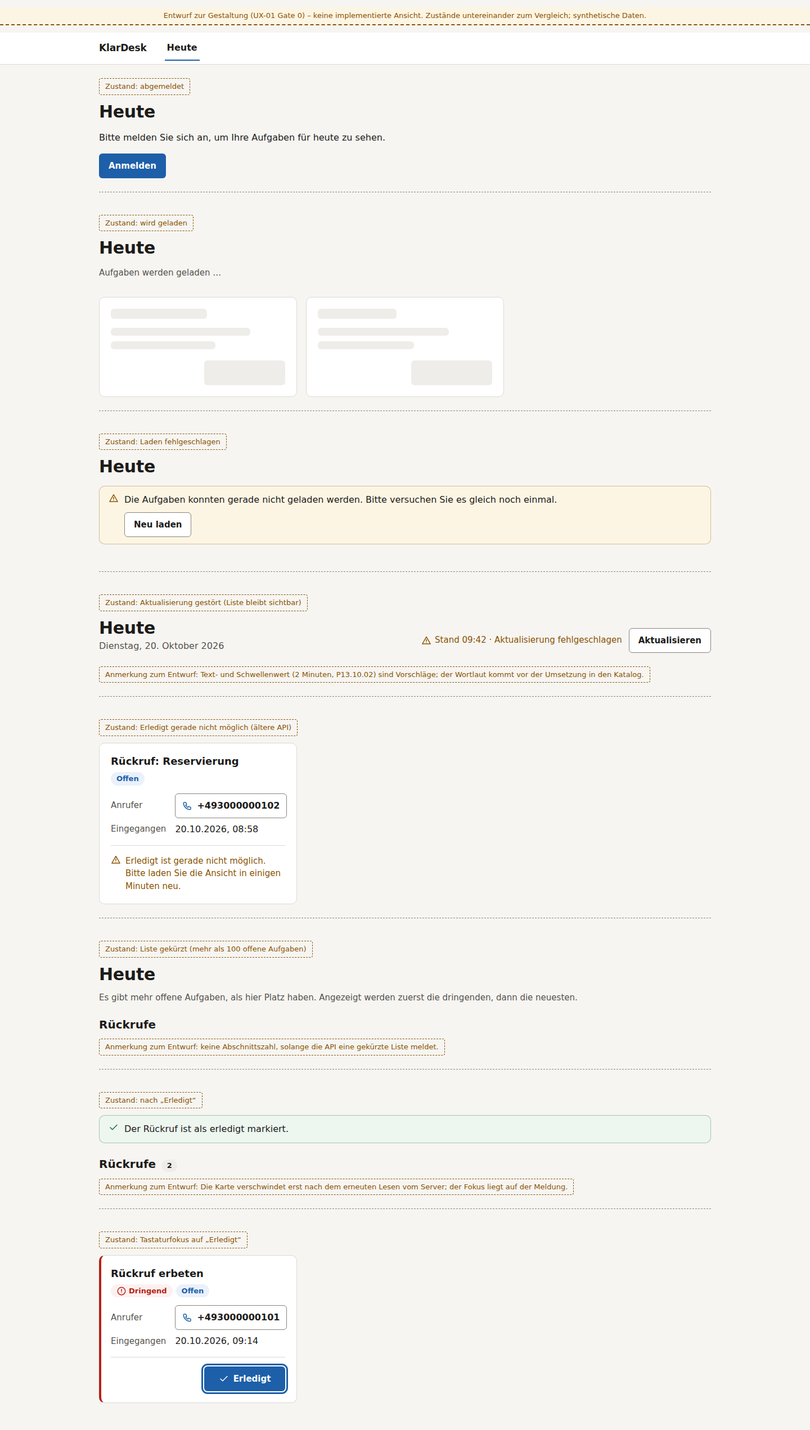
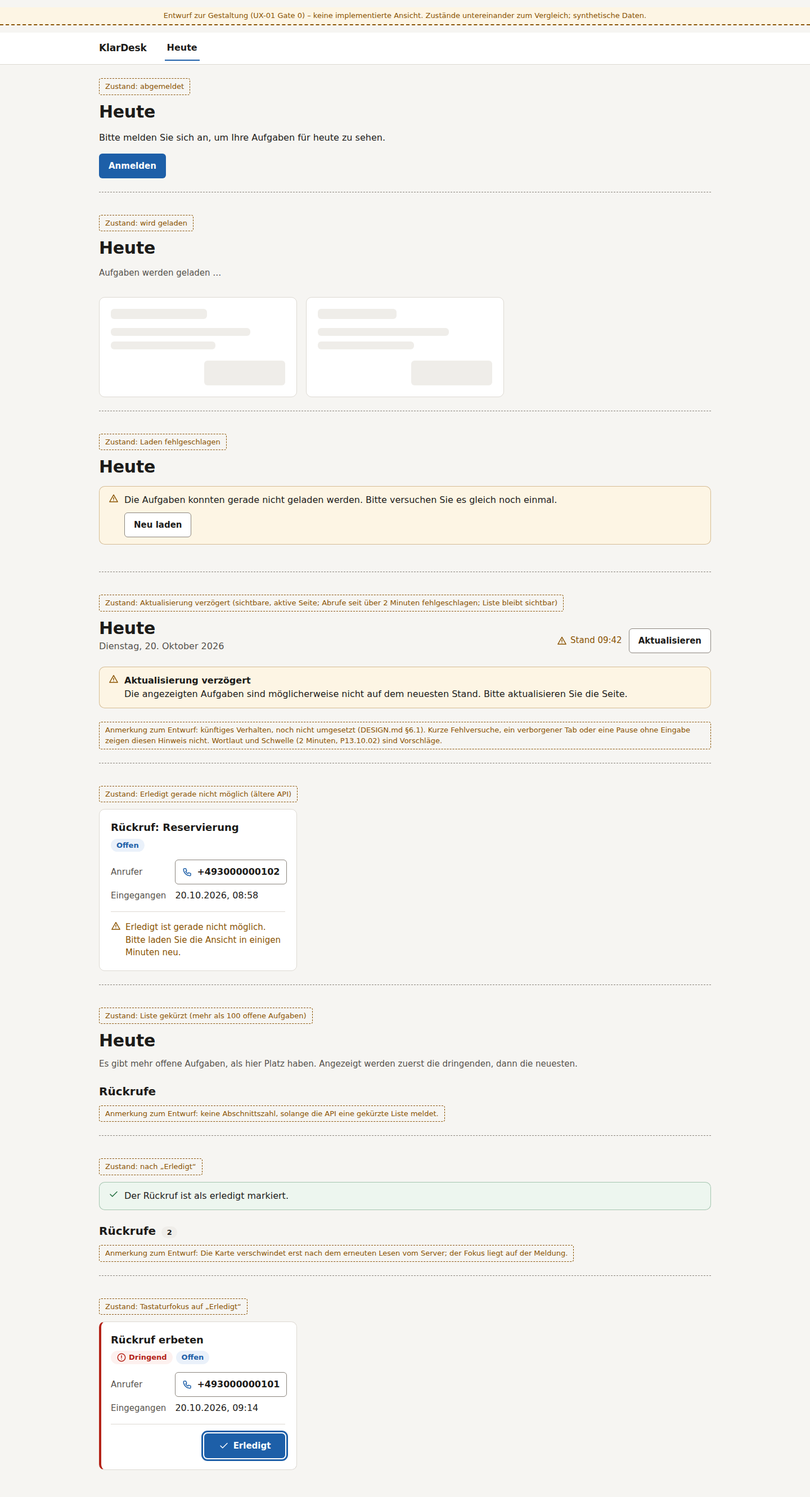
docs(p13): warn of stale data only on real failures; keep DG-10 open
Independent review of the Gate 0 package found the stale rule would warn on a
healthy hidden or idle tab, and that the DG-10 record let document acceptance
stand in for the owner usability test PLAN requires.

DESIGN.md now specifies refresh health as proposed future behaviour: a
failure clock that runs only while the page is visible and attended, is reset
by any successful read including an unchanged one, and raises "Aktualisierung
verzögert" after more than two minutes of actual failures. The current poller
exposes none of this, so a separate gate with eight acceptance proofs owns it.

DG-10 separates provisional direction, accepted planning guidance and
completed evidence; the owner test is not started, P13.01 stays blocked, and
the sequencing is put to the founder.

The foundations swatch label moves from white (3.70:1) to the text token
(4.65:1); the three affected mock-up images are regenerated from source.
ADR-0025 D2 records the stylesheet entry, the tokens export and the explicit
source registration of the ui package, with proofs required on the standalone
image.

diff --git a/docs/design/review/mockups/heute-states.html b/docs/design/review/mockups/heute-states.html
@@ -104,7 +104,10 @@
         </div>
       </div>
 
-      <p class="state-label">Zustand: Aktualisierung gestört (Liste bleibt sichtbar)</p>
+      <p class="state-label">
+        Zustand: Aktualisierung verzögert (sichtbare, aktive Seite; Abrufe seit über 2 Minuten
+        fehlgeschlagen; Liste bleibt sichtbar)
+      </p>
       <div class="state">
         <div class="page-head">
           <div>
@@ -113,15 +116,25 @@
           </div>
           <div class="page-tools">
             <span class="status-line status-line--warning"
-              ><svg class="icon" aria-hidden="true"><use href="#i-warn" /></svg>Stand 09:42 ·
-              Aktualisierung fehlgeschlagen</span
+              ><svg class="icon" aria-hidden="true"><use href="#i-warn" /></svg>Stand 09:42</span
             >
             <a class="btn btn-secondary" href="#">Aktualisieren</a>
           </div>
         </div>
+        <div class="alert alert--warning" role="status" style="margin-top: 16px">
+          <svg class="icon" aria-hidden="true"><use href="#i-warn" /></svg>
+          <div>
+            <p><strong>Aktualisierung verzögert</strong></p>
+            <p>
+              Die angezeigten Aufgaben sind möglicherweise nicht auf dem neuesten Stand. Bitte
+              aktualisieren Sie die Seite.
+            </p>
+          </div>
+        </div>
         <p class="state-label" style="margin: 0">
-          Anmerkung zum Entwurf: Text- und Schwellenwert (2 Minuten, P13.10.02) sind Vorschläge; der
-          Wortlaut kommt vor der Umsetzung in den Katalog.
+          Anmerkung zum Entwurf: künftiges Verhalten, noch nicht umgesetzt (DESIGN.md §6.1). Kurze
+          Fehlversuche, ein verborgener Tab oder eine Pause ohne Eingabe zeigen diesen Hinweis
+          nicht. Wortlaut und Schwelle (2 Minuten, P13.10.02) sind Vorschläge.
         </p>
       </div>
 

diff --git a/docs/design/review/mockups/foundations.html b/docs/design/review/mockups/foundations.html
@@ -53,7 +53,7 @@
             <div class="swatch-meta"><strong>#57534E</strong>Beschriftungen, Zeiten</div>
           </div>
           <div class="swatch">
-            <div class="swatch-chip" style="background: #8a847c; color: #ffffff">Bedienrahmen</div>
+            <div class="swatch-chip" style="background: #8a847c; color: #1c1b19">Bedienrahmen</div>
             <div class="swatch-meta">
               <strong>#8A847C</strong>3.7 auf Fläche · 3.4 auf Canvas (≥ 3:1)
             </div>

diff --git a/docs/design/DESIGN.md b/docs/design/DESIGN.md
@@ -1,6 +1,7 @@
 # Owner app design system (DESIGN.md)
 
 - **Status:** PROPOSED: pending founder acceptance (UX-01 Gate 0). Not binding until the founder accepts it, and nothing here is implemented yet.
+- **What acceptance means:** founder acceptance makes this file planning guidance for UX-01. It does **not** complete DG-10, whose PLAN evidence (an owner usability test) is still outstanding, and it does not by itself unblock P13.01 implementation. See [DG-10](../decisions/DG-10-owner-app-visual-language.md), "Status and what remains open".
 - **Scope:** the owner web app (`apps/web`) and its shared components (`packages/ui`). It does not cover marketing pages or the Keycloak sign-in theme.
 - **Decided with:** [DG-10](../decisions/DG-10-owner-app-visual-language.md) (visual language) and [ADR-0025](../adr/0025-frontend-architecture.md) (frontend architecture).
 - **Review package:** [review/README.md](review/README.md) (proposal mock-ups, not screenshots of the app).
@@ -10,7 +11,7 @@
 When sources disagree, the higher one wins:
 
 1. PLAN, the invariants (INV-01…INV-20), security, accessibility (WCAG 2.2 AA, P13.12) and repository governance.
-2. The founder-approved DG-10 decision.
+2. The DG-10 decision, once taken with its PLAN evidence ([record](../decisions/DG-10-owner-app-visual-language.md)).
 3. The adopted ADR-0025.
 4. This file, once approved.
 5. Suggestions from external design skills, references and tools. They are advisory only and never override 1–4 ([design-references.md](design-references.md)).
@@ -91,13 +92,13 @@ Contrast follows WCAG 2.x relative luminance. "Surface" is `#FFFFFF`, "canvas" i
 
 ### 3.2 Status semantics
 
-| Meaning                          | Visual                                          | Text (from `de.json`)                                   |
-| -------------------------------- | ----------------------------------------------- | ------------------------------------------------------- |
-| Needs attention now (`urgent`)   | urgent badge plus a 4 px urgent bar on the card | badge "Dringend"; section heading "Dringend"            |
-| Open                             | primary text on info background                 | "Offen"                                                 |
-| In progress or waiting           | muted text on sunken background                 | "In Bearbeitung", "Wartet"                              |
-| Outcome confirmed by the API     | success notice with a check icon                | `today.complete.done`                                   |
-| Read failed, stale, not possible | warning alert with an icon                      | `today.error`, `today.complete.unavailable`, stale line |
+| Meaning                          | Visual                                          | Text (from `de.json`)                             |
+| -------------------------------- | ----------------------------------------------- | ------------------------------------------------- |
+| Needs attention now (`urgent`)   | urgent badge plus a 4 px urgent bar on the card | badge "Dringend"; section heading "Dringend"      |
+| Open                             | primary text on info background                 | "Offen"                                           |
+| In progress or waiting           | muted text on sunken background                 | "In Bearbeitung", "Wartet"                        |
+| Outcome confirmed by the API     | success notice with a check icon                | `today.complete.done`                             |
+| Read failed, stale, not possible | warning alert with an icon                      | `today.error`, `today.complete.unavailable`, §6.1 |
 
 Icons come from `lucide-react` and are `aria-hidden="true"`, because their meaning is always also in the text.
 
@@ -155,7 +156,7 @@ There are no entrance animations, staggered reveals, hover scaling, scroll effec
 **Page header.**
 
 - The h1 is "Heute", followed by the date in German long form.
-- The status line reads "Stand HH:MM", the time of the last successful read of the task list.
+- The status line reads "Stand HH:MM", the time of the last successful read of the task list as observed by this page: the server's read for the first render, then every successful poll, **including one whose answer is unchanged and causes no re-render** (§6.1). It is never a backend freshness timestamp. Today's page has no status line; it arrives with the refresh-health gate (§6.1).
 - "Aktualisieren" stays a **link** styled as a secondary button.
 
 **Sections.**
@@ -219,17 +220,84 @@ There are no entrance animations, staggered reveals, hover scaling, scroll effec
 
 ## 6. States
 
-| State                        | Treatment                                                                                                                                                                                                 |
-| ---------------------------- | --------------------------------------------------------------------------------------------------------------------------------------------------------------------------------------------------------- |
-| Signed out                   | page header, `today.signedOut` text, "Anmelden" as a primary link to `/api/auth/login`                                                                                                                    |
-| Loading                      | three skeleton cards in the section frame plus the existing `role="status"` text "Aufgaben werden geladen …"                                                                                              |
-| Empty                        | every section shows its heading and "Alles erledigt."                                                                                                                                                     |
-| Populated                    | cards per §5; counts per §2                                                                                                                                                                               |
-| Truncated                    | `role="note"` truncation text below the header; no counts; empty sections say `today.noneShown`                                                                                                           |
-| Error (read failed)          | warning alert (`role="alert"`) with `today.error` and "Neu laden"                                                                                                                                         |
-| Degraded: stale              | the status line switches to the warning tone, "Stand HH:MM · Aktualisierung fehlgeschlagen". After 2 minutes without a successful read, the view is marked possibly out of date (P13.10.02). Never "live" |
-| Degraded: action unavailable | the card keeps its facts; `today.complete.unavailable` replaces the button                                                                                                                                |
-| After an action              | the outcome notice above the sections, success or warning tone by result, with focus                                                                                                                      |
+| State                        | Treatment                                                                                                                                                                                 |
+| ---------------------------- | ----------------------------------------------------------------------------------------------------------------------------------------------------------------------------------------- |
+| Signed out                   | page header, `today.signedOut` text, "Anmelden" as a primary link to `/api/auth/login`                                                                                                    |
+| Loading                      | three skeleton cards in the section frame plus the existing `role="status"` text "Aufgaben werden geladen …"                                                                              |
+| Empty                        | every section shows its heading and "Alles erledigt."                                                                                                                                     |
+| Populated                    | cards per §5; counts per §2                                                                                                                                                               |
+| Truncated                    | `role="note"` truncation text below the header; no counts; empty sections say `today.noneShown`                                                                                           |
+| Error (read failed)          | warning alert (`role="alert"`) with `today.error` and "Neu laden"                                                                                                                         |
+| Degraded: refresh delayed    | only after more than 2 minutes of failed refreshes on a visible, attended page; never because the tab was hidden, the owner was idle or nothing changed. Full rules in §6.1. Never "live" |
+| Degraded: action unavailable | the card keeps its facts; `today.complete.unavailable` replaces the button                                                                                                                |
+| After an action              | the outcome notice above the sections, success or warning tone by result, with focus                                                                                                      |
+
+### 6.1 Refresh health (proposed future behaviour, not implemented)
+
+Everything in this section is **proposed**. None of it exists in the current code, and none of it is VERIFIED. It implements P13.10.02 ("stale-data indicator after 2 min without updates"), read here as "2 minutes without a **successful refresh**", not "2 minutes without new tasks". The founder confirms that reading (DG-10 record, "Founder decisions").
+
+**Today's polling, as built** (`apps/web/lib/live-today.ts`, `apps/web/app/live-today.tsx`, M2B):
+
+- a visible, attended tab polls `GET /api/today` every 15 s (`LIVE_POLL_MS`), each request timing out after 8 s;
+- a failure backs off to 30 s, 60 s, then at most 120 s between attempts (`LIVE_BACKOFF_MAX_MS`), with ±10% jitter, and leaves the list on screen;
+- a hidden tab, or a tab without input for 30 minutes (`LIVE_IDLE_MS`), stops polling. Showing the tab, coming back online, or the first input after the idle pause polls at once (`wake`);
+- a 401 hands over to the server render, which shows the signed-out state and unmounts the poller;
+- an unchanged answer does nothing; a changed one calls `router.refresh()`.
+
+**What the code doesn't provide yet.** `startLivePoll` reports only "the list changed" (`onChange`). It reports no unchanged success, no failure, no time of the last success and no suspension or resumption; its failure count is internal. `LiveToday` renders nothing, and the page has no status line. This behaviour therefore **needs a change to the poller's state machine**: it must report each attempt's result with its time, and when polling is suspended or resumed. It also needs `LiveToday` (or a sibling client component) to render the status line and the notice. That change adds markup, not requests: the client still makes only the existing same-origin read (ADR-0025 D1).
+
+**The failure clock.** All rules hang on one client-side clock:
+
+- It **starts** when an attempt fails and no failure is already being timed since the last success.
+- It **runs only while the page is visible and attended.** Hidden and idle time pauses it; it neither advances nor resets.
+- It **resets to zero** on any successful read, changed or unchanged.
+
+A failed attempt is a network error, the 8 s timeout, any status other than 200 and 401, or a body the contract parser rejects.
+
+**States:**
+
+| State                                    | Condition                                                         | Treatment                                                                                                                                                                    |
+| ---------------------------------------- | ----------------------------------------------------------------- | ---------------------------------------------------------------------------------------------------------------------------------------------------------------------------- |
+| Initial loading                          | the server is rendering the first page                            | `loading.tsx`: skeleton plus "Aufgaben werden geladen …" (§6 Loading)                                                                                                        |
+| Initial-load failure                     | the server read failed                                            | the existing immediate `role="alert"` with `today.error` and "Neu laden". No list, so no refresh-health notice. Polling continues, and the first success re-renders the page |
+| Healthy polling                          | visible, attended, last attempt succeeded                         | "Stand HH:MM" in muted text                                                                                                                                                  |
+| Successful refresh, unchanged answer     | a 200 whose fingerprint equals the rendered one                   | counts as success: the clock resets, "Stand" advances to this read's time, any notice clears. No server re-render                                                            |
+| Failed attempts, under 2 minutes         | visible, attended, clock between 0 and 2 minutes                  | **no visible change**: the list and "Stand HH:MM" (still the last success) stay. Backoff retries as built                                                                    |
+| Refresh delayed                          | clock above 2 minutes **and** the latest completed attempt failed | "Stand HH:MM" turns to the warning tone with an icon, and the notice below appears                                                                                           |
+| Hidden tab                               | `document.visibilityState` is not `visible`                       | polling suspended, clock paused, nothing raised. Unseen, so no notice can appear meanwhile                                                                                   |
+| Idle                                     | no input for 30 minutes                                           | the same as a hidden tab                                                                                                                                                     |
+| Returning (tab shown, input, online)     | suspension ends                                                   | an immediate recovery poll (`wake`). Until it completes, no notice is **newly** raised: the clock was paused, so it can't have crossed 2 minutes                             |
+| Recovery                                 | any later successful read                                         | the clock resets, the notice disappears, "Stand" advances, and a changed list re-renders                                                                                     |
+| Session expired or authentication failed | the poll gets 401                                                 | the existing authentication path: server render, signed-out state, "Anmelden". A 401 that render doesn't confirm counts as a failed attempt                                  |
+
+**The notice** (proposed wording; it enters `de.json` only at implementation):
+
+- **Title:** "Aktualisierung verzögert"
+- **Text:** "Die angezeigten Aufgaben sind möglicherweise nicht auf dem neuesten Stand. Bitte aktualisieren Sie die Seite."
+- **Presentation:** a warning `Alert` below the page header, with `role="status"` (polite). It never takes focus, because it appears without user action. The existing "Aktualisieren" link is the action.
+
+**It is never raised because:**
+
+- no new callbacks arrived;
+- the last successful answer was unchanged;
+- the tab was hidden;
+- polling was suspended while idle;
+- the owner returned and the recovery poll hasn't completed yet.
+
+Only failed attempts on a visible, attended page move the clock.
+
+**Implementation and acceptance: UX-01 refresh-health gate (RH).** RH is its own gate and PR, separate from styling. Its markup can use the tokens if they exist by then and the existing unstyled markup otherwise. It is accepted only with these executable proofs, each run on the real code:
+
+1. A successful unchanged answer resets the clock, advances "Stand" and clears the notice, without a server re-render (unit test of the poller's state logic with fake timers).
+2. Failed attempts on a visible, attended page raise the notice after more than 2 minutes, and not before (unit; plus one slice E2E with the API made unreachable).
+3. Hidden-tab and idle suspension never raise a notice, however long they last, including 2 minutes or more after an earlier failure (unit).
+4. Showing the tab, coming back online, or the first input after an idle pause starts an immediate recovery poll (unit; the existing "polls at once when it is shown again" test stays green).
+5. A successful recovery clears the notice (unit and slice E2E).
+6. An initial-load failure keeps its existing immediate `role="alert"` treatment, and no refresh-health notice appears (existing page tests plus one assertion).
+7. Session expiry goes through the existing authentication path: on a confirmed 401 the signed-out state renders (existing behaviour; regression test).
+8. The retained list, interval, backoff, timeout, idle rule, no-overlap rule and `router.refresh` on change behave as today, unless a change is intended, named in the PR and tested. The existing `apps/web/lib/live-today.test.ts` cases and `e2e/vertical-slice/today-callback.spec.ts` pass unchanged.
+
+The regression tests are mutation-checked. RH supplies the stale-indicator half of P13.10.03. The SSE half stays open until the API has an event stream (ADR-0025 D4).
 
 ## 7. Interaction rules
 

diff --git a/docs/design/visual-regression-plan.md b/docs/design/visual-regression-plan.md
@@ -7,18 +7,18 @@ Screenshots are a tripwire against unintended visual change. They never replace 
 
 ## 1. Environment (everything fixed)
 
-| Variable          | Fixed value                                                                                                                                                                  |
-| ----------------- | ---------------------------------------------------------------------------------------------------------------------------------------------------------------------------- |
-| Application state | the vertical-slice stack (built API and web, PostgreSQL, local Keycloak), as in `playwright.slice.config.ts`, never the founder's packaged demo                              |
-| Data              | a fresh database per run, seeded only through the existing simulated-call endpoint with the fixed synthetic set in §3                                                        |
-| Browser           | Playwright **1.63.0** Chromium, in the official Playwright container image for that version, pinned by digest when the job is written                                        |
-| Fonts             | whatever that image ships; the design uses the system UI stack, and the pinned image makes the resolved fonts deterministic                                                  |
-| Locale, timezone  | `locale: 'de-DE'`, `timezoneId: 'Europe/Berlin'`                                                                                                                             |
-| Motion            | `reducedMotion: 'reduce'`, `toHaveScreenshot({ animations: 'disabled', caret: 'hide' })`                                                                                     |
-| Pointer           | mouse moved to `(0, 0)` before each capture (no hover state)                                                                                                                 |
-| Device scale      | 1                                                                                                                                                                            |
-| Dynamic values    | masked, not faked: every `<time>`, the page date, and the "Stand HH:MM" line. They are server-rendered from real clocks, so the browser clock can't legitimately freeze them |
-| Tolerance         | `maxDiffPixelRatio: 0.01`, `threshold: 0.2` (Playwright defaults otherwise)                                                                                                  |
+| Variable          | Fixed value                                                                                                                                                                                                                                               |
+| ----------------- | --------------------------------------------------------------------------------------------------------------------------------------------------------------------------------------------------------------------------------------------------------- |
+| Application state | the vertical-slice stack (built API and web, PostgreSQL, local Keycloak), as in `playwright.slice.config.ts`, never the founder's packaged demo                                                                                                           |
+| Data              | a fresh database per run, seeded only through the existing simulated-call endpoint with the fixed synthetic set in §3                                                                                                                                     |
+| Browser           | Playwright **1.63.0** Chromium, in the official Playwright container image for that version, pinned by digest when the job is written                                                                                                                     |
+| Fonts             | whatever that image ships; the design uses the system UI stack, and the pinned image makes the resolved fonts deterministic                                                                                                                               |
+| Locale, timezone  | `locale: 'de-DE'`, `timezoneId: 'Europe/Berlin'`                                                                                                                                                                                                          |
+| Motion            | `reducedMotion: 'reduce'`, `toHaveScreenshot({ animations: 'disabled', caret: 'hide' })`                                                                                                                                                                  |
+| Pointer           | mouse moved to `(0, 0)` before each capture (no hover state)                                                                                                                                                                                              |
+| Device scale      | 1                                                                                                                                                                                                                                                         |
+| Dynamic values    | masked, not faked: every `<time>`, the page date, and the "Stand HH:MM" line. They come from real clocks: the server's for the render, and the page's last successful read for "Stand" (DESIGN.md §6.1). The browser clock can't legitimately freeze them |
+| Tolerance         | `maxDiffPixelRatio: 0.01`, `threshold: 0.2` (Playwright defaults otherwise)                                                                                                                                                                               |
 
 No production data, no personal data and no real phone numbers are used, ever.
 
@@ -95,3 +95,4 @@ PLAN's 360, 768 and 1280 stay mandatory functional widths. Screenshots go where 
 - Under `forcedColors: 'active'`, buttons and focus stay visible (one smoke check).
 - The CSP header is present and no `securitypolicyviolation` event fires.
 - The existing business assertions pass unchanged. Selectors are only ever added (DESIGN.md §5, preserved contracts).
+- The refresh-delayed notice (DESIGN.md §6.1) has no baseline. It is time-dependent, so the refresh-health gate RH proves it with fake-timer unit tests and one slice E2E, not with a screenshot. The matrix stays at 13 images.

diff --git a/docs/decisions/DG-10-owner-app-visual-language.md b/docs/decisions/DG-10-owner-app-visual-language.md
@@ -1,9 +1,9 @@
 # DG-10 — Owner-app visual language
 
 - **Gate:** PLAN Founder Decision Gates, DG-10. **Owner:** founder. **Target date:** 2026-10-12 (overdue).
-- **Decision:** **PROVISIONAL, pending founder acceptance.** The founder has provisionally selected the direction below (UX-01 Gate 0). It becomes TAKEN when the founder accepts this record after reviewing it and [DESIGN.md](../design/DESIGN.md).
-- **Blocks:** P13.01.04 (design tokens) and UX-01 implementation gates 2–5.
-- **Unblocks on:** founder acceptance of this record, [ADR-0025](../adr/0025-frontend-architecture.md) and DESIGN.md.
+- **Decision:** **PROVISIONAL, not TAKEN.** The founder has provisionally selected the direction below (UX-01 Gate 0). Accepting this record, [ADR-0025](../adr/0025-frontend-architecture.md) and [DESIGN.md](../design/DESIGN.md) as planning guidance does not make it TAKEN. PLAN's evidence for DG-10, an owner usability test, has not taken place (see [Status and what remains open](#status-and-what-remains-open)).
+- **Blocks (PLAN L507):** P13.01, including P13.01.04 (design tokens) and the styling work of UX-01 gates 2–5.
+- **Unblocks on:** a founder decision on how the owner usability test is sequenced, then DG-10 TAKEN on that basis. Merging the PR that adds this record changes nothing about DG-10's state.
 
 ## The question
 
@@ -46,9 +46,35 @@ A **calm, premium, light, high-contrast operational SaaS design** for German res
 
 Tokens, components and states are specified in [DESIGN.md](../design/DESIGN.md).
 
-## Evidence required by PLAN
+## Status and what remains open
 
-The DG-10 row asks for an owner usability test. This record fixes the language. Verifying it with an owner is P13 evidence (EV-P13-003, usability session notes) on the implemented Heute (UX-01 gate 3 or later), not on mock-ups.
+Three things are kept apart:
+
+|     | What                                                                                   | State                                          |
+| --- | -------------------------------------------------------------------------------------- | ---------------------------------------------- |
+| A   | The founder provisionally chooses the direction                                        | done (provisional, UX-01 Gate 0)               |
+| B   | The founder accepts this record, ADR-0025 and DESIGN.md as planning guidance for UX-01 | pending founder review of the Gate 0 PR        |
+| C   | DG-10's PLAN evidence exists: an owner usability test, recorded as an evidence record  | **NOT_STARTED**: no owner test has taken place |
+
+A and B don't imply C. Viewing the mock-ups, whether by the founder or anyone else, is not an owner usability test. This record contains no usability observations.
+
+**What PLAN says, and what it leaves open.**
+
+- The DG-10 row: evidence required "Owner usability test"; blocks P13.01 (L507). P13 lists DG-10 among its dependencies.
+- P13's acceptance criteria include a separate session: "Owner usability session with the Gurlitt owner: they complete the morning review of 10 synthetic items in < 5 minutes without help". P13's required evidence names "usability session notes".
+- PLAN doesn't say what the DG-10 test consists of, or whether it may run on a prototype. It doesn't say whether it may be the same session as P13's, or whether DG-10 may be taken on its recommended default before the test.
+- PLAN gives the notes the ID EV-P13-003, but `evidence.py` has already allocated EV-P13-003 to an unrelated record (cards-shapes). The notes get the next free P13 ID when the session takes place.
+
+**Until the founder decides:** DG-10 stays PROVISIONAL, and P13.01 implementation, including the tokens and UX-01 styling, stays blocked as PLAN says. Neither ADR-0025 nor DESIGN.md is a way around that.
+
+## Founder decisions
+
+1. **How DG-10's evidence is produced.** Either:
+   - **(a) PLAN as written:** an owner usability test before DG-10 is taken. The founder also decides what it runs on. Building a styled Heute for the test is P13.01 work and would need the founder's explicit permission.
+   - **(b) A PLAN change.** It loosens a gate, so only the founder can make it: take DG-10 on the recommended default now and record the owner test as follow-up evidence on the implemented Heute, with a named trigger for revising the language if the test fails.
+2. Whether the DG-10 test and P13's acceptance session may be one session.
+3. Whether work that doesn't style the app may proceed while DG-10 is open: the gate 2a before-capture spec ([visual-regression-plan.md](../design/visual-regression-plan.md) §6) and the refresh-health gate RH ([DESIGN.md](../design/DESIGN.md) §6.1, P13.10.02). The M2B polling (P13.02.04) landed while DG-10 was open, but PLAN lists DG-10 as a dependency of all of P13.
+4. That P13.10.02's "2 min without updates" means "without a successful refresh", not "without new tasks" (DESIGN.md §6.1).
 
 ## Options considered
 

diff --git a/docs/adr/0025-frontend-architecture.md b/docs/adr/0025-frontend-architecture.md
@@ -1,6 +1,6 @@
 # ADR-0025 — Owner web app: frontend architecture and design system
 
-- **Status:** PROPOSED (pending founder acceptance; UX-01 Gate 0). Documented, not implemented: no dependency named here is installed yet.
+- **Status:** PROPOSED (pending founder acceptance; UX-01 Gate 0). Documented, not implemented: no dependency named here is installed yet. Accepting this ADR doesn't take DG-10 or unblock P13.01; see the [DG-10 record](../decisions/DG-10-owner-app-visual-language.md).
 - **Deciders:** founder
 - **Phase:** P13
 - **Related:** DG-10, ADR-0001, ADR-0034, INV-02, INV-12, INV-17, QG-03, QG-09
@@ -49,6 +49,44 @@ Adopting those now adds dependencies with nothing to use them. Not recording the
 - `next build` compiles the CSS into a hashed file under `.next/static`, which the image already copies. Nothing is added to the runtime image beyond that stylesheet.
 - Design tokens live as CSS custom properties in `packages/ui/src/tokens.css` under `@theme` ([DESIGN.md](../design/DESIGN.md) §3).
 - No CSS-in-JS runtime, no inline `style` props in components, no web fonts (the system UI stack).
+
+**D2 wiring.** These are planned changes, written against the repository as it stands at Gate 0:
+
+- `@moin/web` doesn't yet depend on `@moin/ui`.
+- `@moin/ui` exports only `.` (`./src/index.ts`).
+- `next.config.ts` transpiles only `@moin/contracts`.
+- The root `.gitignore` ignores `dist/`, `.next/` and `node_modules/`.
+- `.dockerignore` excludes `docs`.
+
+None of the following has been built or run, and the output paths and resolution details below are unverified until the gate that adds the dependencies proves them.
+
+1. **Stylesheet entry point:** a new `apps/web/app/globals.css`, imported once from `apps/web/app/layout.tsx` (`import './globals.css';`). It replaces that layout's inline `<style>` block.
+
+   ```css
+   @import 'tailwindcss' source('..');
+   @import '@moin/ui/tokens.css';
+   @source '../../../packages/ui/src';
+   @source not '../../../packages/ui/src/**/*.test.*';
+   ```
+
+2. **PostCSS:** `apps/web/postcss.config.mjs` registers `@tailwindcss/postcss`. Its default export is framework-required (A-22).
+3. **Tokens export:** `packages/ui/package.json` gains `"./tokens.css": "./src/tokens.css"` in `exports`, so the second `@import` resolves through the workspace link. The gate confirms that Tailwind's resolver honours that export. If it doesn't, the import becomes the relative path `../../../packages/ui/src/tokens.css`, and the gate records which form is used.
+4. **Workspace link:** `@moin/web` adds `"@moin/ui": "workspace:*"`, and `transpilePackages` becomes `['@moin/contracts', '@moin/ui']`, because `@moin/ui`, like `@moin/contracts`, ships TypeScript source.
+5. **Source scanning.**
+   - **Base path:** `source('..')` pins Tailwind's automatic detection to `apps/web`, relative to the stylesheet, so the result doesn't depend on the directory the build runs from (pnpm filter, turbo or the image).
+   - **What automatic detection skips:** files ignored by `.gitignore` (so `.next/` and `packages/ui/dist/`), everything under `node_modules` (so the `@moin/ui` workspace symlink in `apps/web/node_modules`), CSS files and lock files.
+   - **Registering `@moin/ui`:** its sources lie outside the base path and would also be reached only through `node_modules`, so they are **not** found automatically. The explicit `@source` registers `packages/ui/src`, and `@source not` keeps its test files out.
+   - **Mock-ups:** `docs/design/review/mockups/` is outside every registered path and excluded from the image build context, so its classes never reach the bundle.
+6. **Build and image output:**
+   - `next build` emits the compiled stylesheet as a hashed file under `.next/static/`, which the image already copies next to the standalone server (`apps/server/Dockerfile`).
+   - The deps stage already copies `packages/ui/package.json`, and `--filter @moin/web...` installs `@moin/ui`'s dependencies once the workspace link exists. No Dockerfile change is expected; the gate shows whether one is needed.
+
+**Proof required at adoption, on the production standalone image, not on `next dev`:**
+
+- the built CSS contains a token from `tokens.css` and a utility used only inside `packages/ui/src`, which proves the explicit source registration;
+- `scripts/check-web-image.sh`, extended to require at least one `.css` asset with `text/css`, passes against the built image (amd64 and arm64);
+- the vertical-slice spec reads a computed token value on Heute from the standalone server (for example, the body background `rgb(246, 245, 242)`), and no `securitypolicyviolation` fires;
+- `check-licences.ts` and `pnpm audit --prod` pass with the new dependencies.
 
 **D3 — Shared UI components.**
 

diff --git a/docs/design/review/README.md b/docs/design/review/README.md
@@ -23,6 +23,7 @@
 ![Foundations: tokens, type, spacing, buttons, status](images/foundations-1440.png)
 
 - Every text pair is 4.5:1 or more, and control boundaries and focus rings are 3:1 or more. The full table is in DESIGN.md §3.1.
+- **Correction after independent review:** the "Bedienrahmen" swatch label was white on `#8A847C` (3.70:1, below 4.5:1). It is now `--color-text` `#1C1B19` on the same swatch (4.65:1). The control-border token is unchanged, because it is a 3:1 boundary colour, not a text ground. A computed-style audit of every visible text element in the four mock-ups at 390 and 1440 px now finds no pair below its WCAG threshold.
 - **The primary blue `#1D5FA8` in each state:** default 6.5:1, hover 8.7:1, pressed 11.0:1 (white text on each). The focus ring is 6.5:1 on white and 5.9:1 on the canvas.
 - There is no decorative warm accent (DG-10). The warmth is in the neutral ground `#F6F5F2` and the text greys.
 
@@ -90,13 +91,15 @@ Shown from top to bottom:
 1. signed out;
 2. loading (skeleton plus the existing status text);
 3. read failed (warning alert with "Neu laden");
-4. refresh failing while the list stays visible ("Stand HH:MM · Aktualisierung fehlgeschlagen");
+4. refresh delayed: more than 2 minutes of failed refreshes on a visible, attended page, with the list still shown ("Aktualisierung verzögert", [DESIGN.md](../DESIGN.md) §6.1). This is proposed future behaviour; today's polling doesn't expose the state it needs. Brief failures, a hidden tab and an idle pause show no notice, so they have no image;
 5. completion unavailable on an older API;
 6. truncated list (no counts);
 7. after "Erledigt" (the success notice, which receives focus);
 8. keyboard focus on "Erledigt".
 
-The dashed "Zustand" and "Anmerkung" labels explain the mock-up only and are not part of the design. The wording of the refresh-failure line and its 2-minute threshold (P13.10.02) are proposals that enter `de.json` only at implementation.
+The dashed "Zustand" and "Anmerkung" labels explain the mock-up only and are not part of the design. The wording of the refresh-delayed notice and its 2-minute threshold (P13.10.02) are proposals that enter `de.json` only at implementation (refresh-health gate RH).
+
+**Images regenerated after independent review:** `foundations-1440.png` (contrast correction) and `heute-states-1440.png` / `-390.png` (state 4). The other five images are unchanged: re-rendering their unchanged sources in the same environment reproduced them byte for byte.
 
 ## I. What changes compared with today's unstyled Heute
 

diff --git a/PROGRESS.md b/PROGRESS.md
@@ -1722,3 +1722,17 @@ the screenshot-baseline plan (13 images, CI never writes baselines) and the tool
 references; Chrome DevTools MCP pin and hardening as a founder action). The review package
 (`docs/design/review/`) contains static mock-ups only, labelled as proposals; no before screenshot of the
 application exists yet (gate 2a). P13.01.04 stays IN_PROGRESS; nothing VERIFIED.
+
+UX-01 Gate 0 remediation (2026-10-20, same draft PR #243, docs only, from rejected head `a98d7b4`): independent review
+REQUEST_CHANGES with two P2 and one P3 findings; design direction and architecture were accepted and are unchanged.
+P2-F1: `docs/design/DESIGN.md` §6.1 now specifies refresh health as proposed future behaviour. A client-side failure
+clock runs only while the page is visible and attended, and any successful read, unchanged or not, resets it.
+"Aktualisierung verzögert" appears after more than 2 minutes of real failures, never for hidden, idle, unchanged or
+no-new-work cases. The current poller exposes none of this state; a separate gate RH with eight acceptance proofs
+covers it. P2-F2: the DG-10 record now separates provisional direction, accepted planning guidance and evidence
+complete; the owner usability test is NOT_STARTED, DG-10 stays PROVISIONAL, P13.01 stays blocked, and four
+founder decisions are listed. PLAN names that evidence EV-P13-003, but that ID is already taken by another record.
+P3: the "Bedienrahmen" swatch label goes from white (3.70:1) to `#1C1B19` (4.65:1). A text-contrast audit of all
+mock-ups found no other failures, and three images were regenerated from source; the other five re-render byte for
+byte. ADR-0025 D2 now documents the Tailwind entry, export and `@source` registration of `@moin/ui`, with proofs
+required on the standalone image. Nothing implemented, nothing VERIFIED.
